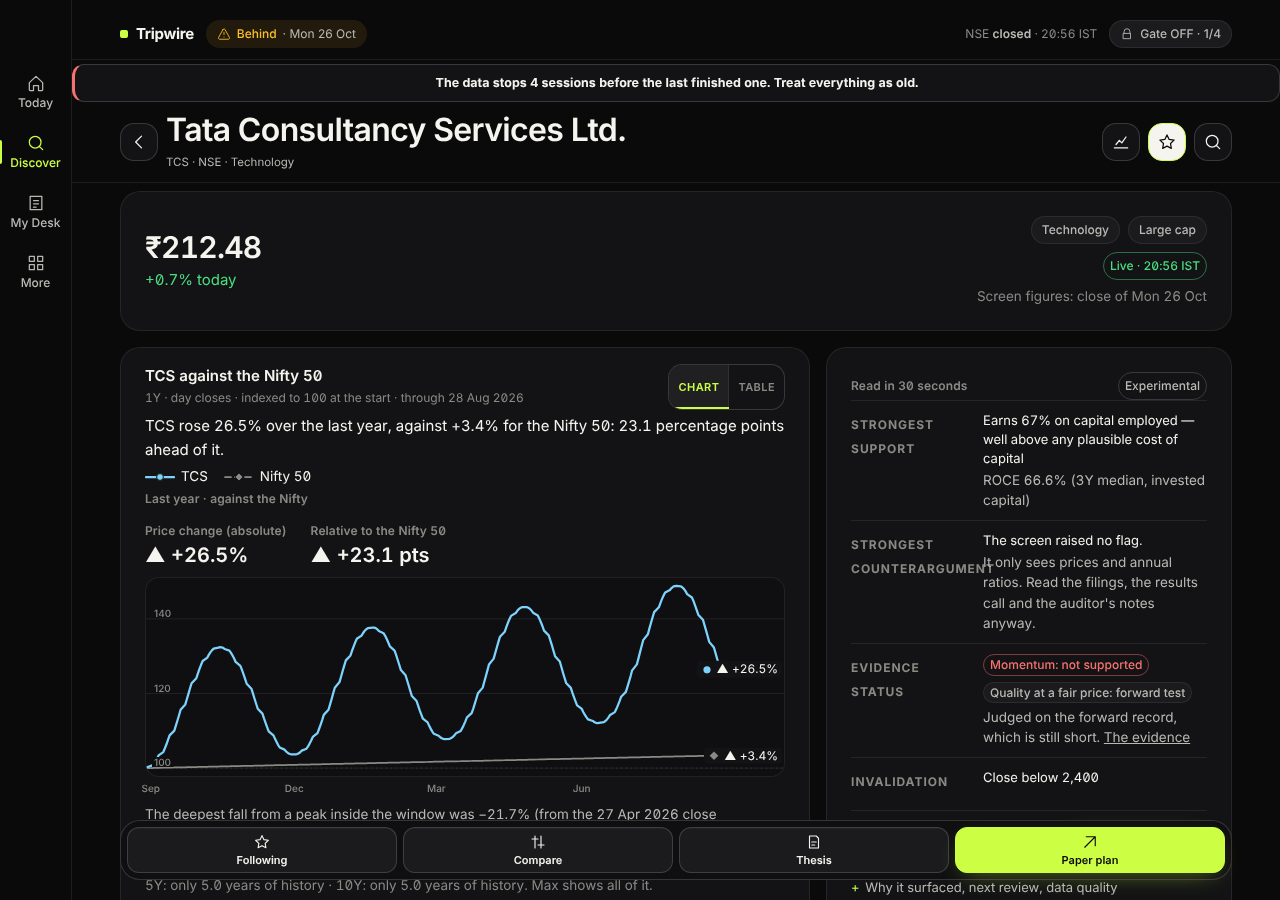
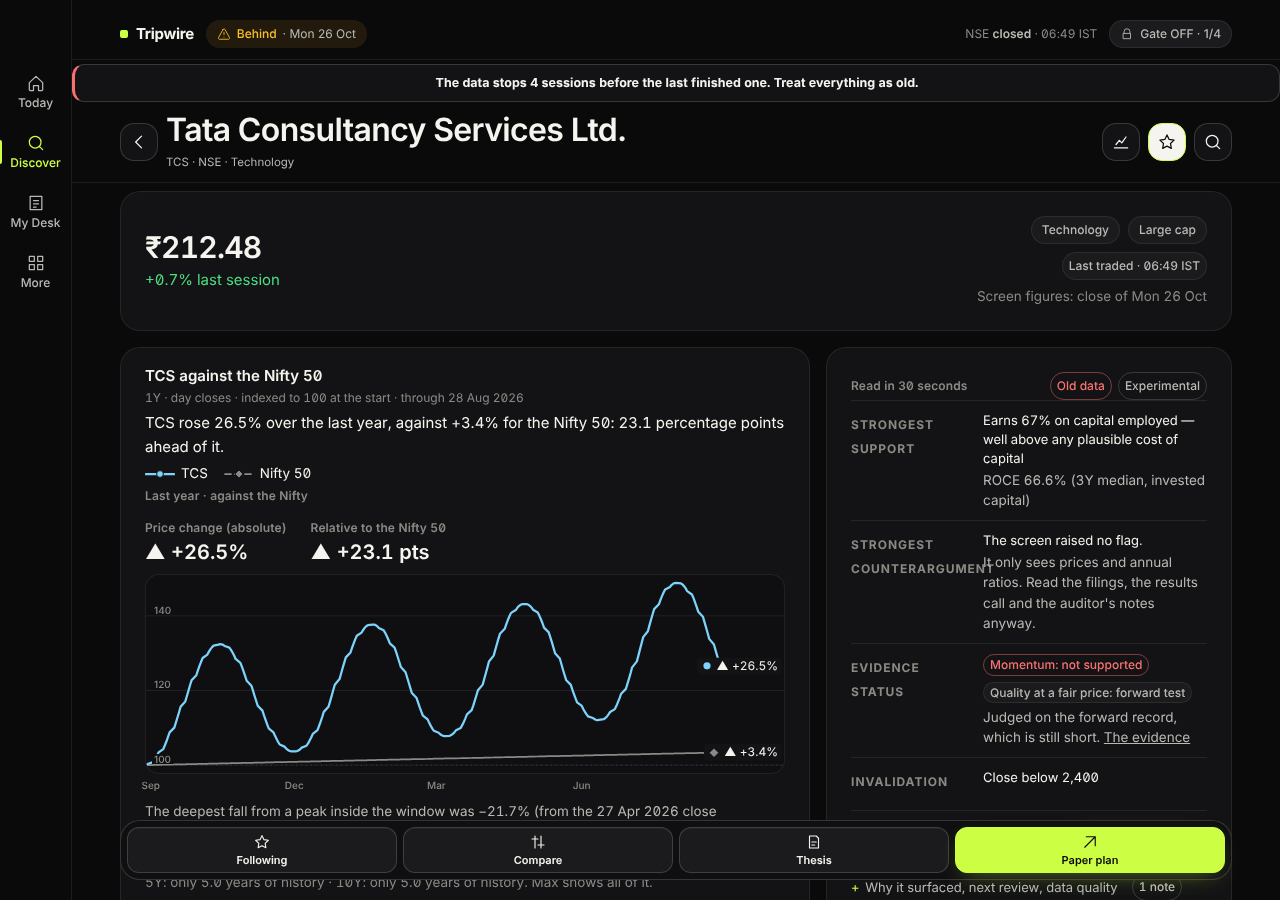
Company chart: two control rows, Chart options sheet with badge, clean line by default, one-line basis, table as disclosure, tab labels that fit; browser tests updated; screenshots refreshed

diff --git a/apps/tripwire/src/screens/PriceChart.tsx b/apps/tripwire/src/screens/PriceChart.tsx
@@ -3,8 +3,8 @@ import { setState, useAppState } from '../app.tsx';
 import { useChart } from '../data.ts';
 import { aggregate, compareSeries, drawdownSeries, pathThrough, rangeAvailability, rsiSeries, smaSeries, dateLabel, downsample, geometry, geometryPair, nearestX, sliceRange, spanWord, stats, xTicks, yTicks, type Frame, type Pt, type RangeId } from '../chart.ts';
 import { inr, pct } from '../fmt.ts';
-import { Radios } from '../ui.tsx';
-import { BASIS, ChartFrame, ChartState, ChartTable, SeriesLegend, arrowOf, buildTable, chartStart, markerPath, priceTakeaway, signedPts, spreadLabels, styleOf, windowWords, type FrameMode } from '../charts/index.ts';
+import { Radios, Sheet } from '../ui.tsx';
+import { BASIS, ChartFrame, ChartState, ChartTable, SeriesLegend, arrowOf, buildTable, chartStart, markerPath, priceTakeaway, signedPts, spreadLabels, styleOf, windowWords } from '../charts/index.ts';
 import type { Level } from '../levels.ts';
 
 /** Price history inside the shared chart frame. A one-year view against the Nifty 50 is where a new reader starts (a saved choice wins); candles, log scale, averages, volume, RSI,
@@ -18,8 +18,8 @@ export function PriceChart({ sym, fmt, name, levels = [], events = [] }: { sym: 
   const feed = useChart(sym); const gid = useId().replace(/:/g, ''); void gid;
   const app = useAppState(); const savedPref = app.prefs.chart;
   const [rangeSel, setRange] = useState<RangeId | null>(null); const [vsSel, setVs] = useState<boolean | null>(null); const [view, setView] = useState<Frame>('daily'); const [log, setLog] = useState(false); const [ma, setMa] = useState(false); const [dd, setDd] = useState(false);
-  const [lvOn, setLvOn] = useState(true); const [evOn, setEvOn] = useState(true); const [kind, setKind] = useState<'line' | 'candle'>('line'); const [vol, setVol] = useState(false); const [rsi, setRsi] = useState(false);
-  const [mode, setMode] = useState<FrameMode>('chart');
+  const [lvOn, setLvOn] = useState(false); const [evOn, setEvOn] = useState(false); /* the clean line first: no overlay is drawn until it is asked for */ const [kind, setKind] = useState<'line' | 'candle'>('line'); const [vol, setVol] = useState(false); const [rsi, setRsi] = useState(false);
+  const [optsOpen, setOptsOpen] = useState(false);
   const [cur, setCur] = useState<number | null>(null); const box = useRef<HTMLDivElement>(null);
   const all: Pt[] = useMemo(() => (feed.data ? feed.data.t.map((t, i) => ({ t, c: feed.data!.c[i], n: feed.data!.n ? feed.data!.n[i] : null, o: feed.data!.o?.[i] ?? null, h: feed.data!.h?.[i] ?? null, l: feed.data!.l?.[i] ?? null, v: feed.data!.v?.[i] ?? null })) : []), [feed.data]);
   const start = useMemo(() => chartStart(all, savedPref as { range?: RangeId; vs?: boolean } | undefined, instrument), [all, savedPref, instrument]);
@@ -44,7 +44,7 @@ export function PriceChart({ sym, fmt, name, levels = [], events = [] }: { sym: 
   const candles = kind === 'candle' && hasOhlc && !cmp;
   const barsMode = !cmp && (candles || (vol && hasVol));
   const [wpx, setWpx] = useState(340); const ready = !feed.loading && !!feed.data && all.length >= 30;
-  useLayoutEffect(() => { const el = box.current; if (!el) return; const set = () => { const w = el.clientWidth; if (w > 0) setWpx((x) => (Math.abs(x - w) < 1 ? x : w)); }; set(); const ro = new ResizeObserver(set); ro.observe(el); return () => ro.disconnect(); }, [ready, mode]);
+  useLayoutEffect(() => { const el = box.current; if (!el) return; const set = () => { const w = el.clientWidth; if (w > 0) setWpx((x) => (Math.abs(x - w) < 1 ? x : w)); }; set(); const ro = new ResizeObserver(set); ro.observe(el); return () => ro.disconnect(); }, [ready]);
   const lastLen = shown.length ? f(shown[shown.length - 1].c).length : 8;
   const gutU = candles ? Math.round((Math.min(wpx * 0.3, Math.max(54, lastLen * 6.4 + 18)) / wpx) * 1000) : 0;
   const pairGut = Math.round((64 / wpx) * 1000);          // room at the right of a two-line chart for the end labels
@@ -76,6 +76,7 @@ export function PriceChart({ sym, fmt, name, levels = [], events = [] }: { sym: 
 
   if (feed.loading) return <ChartState title="Price history" busy />;
   if (feed.err || !feed.data || all.length < 30) return <ChartState title="Price history" action={<button className="btn sm" onClick={feed.retry}>Try again</button>}>{feed.err === 'not published' || feed.err === 'no price history for this symbol' ? 'No price history is held for this symbol.' : feed.data ? 'Too little history to draw.' : `Could not load the price history${feed.err ? ` (${feed.err})` : ''}. Nothing is drawn in its place.`}</ChartState>;
+  const optCount = [view !== 'daily', kind !== 'line', logOn, ma, vol, rsi, dd, lvOn && levels.length > 0, evOn && events.length > 0].filter(Boolean).length;
   const yrs = st ? spanWord(st.years) : '';
   const cmpYears = cmp ? (cmp.a[cmp.a.length - 1].t - cmp.a[0].t) / (365.25 * 86400) : 0;
   const words = cmp?.trimmed ? `the ${spanWord(cmpYears)} since ${dateLabel(cmp.from.t)}` : windowWords(range, win.covers, st?.years ?? 0);
@@ -162,12 +163,12 @@ export function PriceChart({ sym, fmt, name, levels = [], events = [] }: { sym: 
         <svg viewBox={`0 0 ${geo.W} ${H2}`} preserveAspectRatio="none" aria-hidden="true"><line x1="0" x2={geo.W} y1={y(0)} y2={y(0)} stroke="var(--line2)" strokeWidth="1" vectorEffect="non-scaling-stroke" /><path d={`${d}L${geo.xs[geo.xs.length - 1].toFixed(1)} ${y(0)}L${geo.xs[0].toFixed(1)} ${y(0)}Z`} fill="var(--down)" fillOpacity=".12" /><path d={d} fill="none" stroke="var(--down)" strokeWidth="1.25" strokeDasharray="6 2" vectorEffect="non-scaling-stroke" /></svg></div></div>; })()}
   </>;
 
-  return <ChartFrame label="Price history" mode={mode} onMode={(m) => { setMode(m); setCur(null); }}
+  return <ChartFrame label="Price history"
     title={cmp ? `${sym} against the Nifty 50` : `${name ?? sym} price`} meta={metaBits.join(' · ')} takeaway={take} legend={legend} table={<ChartTable data={table} caption={`${cmp ? 'Indexed comparison' : 'Closing prices'} for ${sym}, ${range}`} unitWord={unitWord} />}
-    basis={cmp ? `${BASIS.stock} ${BASIS.nifty} Both lines are indexed to 100 on ${dateLabel(cmp.from.t)} (units: index points).` : instrument ? BASIS.instrument(name ?? sym) : `${BASIS.stock}${candles ? " Candles show each bar's open, high, low and close." : ''} The live price is not drawn here and never moves this chart.`}
-    tableLabel="The same figures as a table"
+    basis={cmp ? 'Daily closes, indexed to 100, split-adjusted, dividends not included' : instrument ? `Daily closes in ${name ?? sym}'s own units` : 'Daily closes, ₹, split-adjusted, dividends not included'}
+   
     notes={<>
-      {mode === 'chart' && <>
+      {<>
         {bars && eff !== view && !cmp && <p className="small mute" style={{ margin: '8px 0 0' }}>{kind === 'candle' ? 'Candles' : 'Volume'} are drawn as {FRAME_WORD[eff]} bars here: {win.pts.length.toLocaleString('en-IN')} daily bars would be too thin to read, and thinning them would misstate each day.</p>}
         {kind === 'candle' && candles && shown.some((q) => q.o == null || q.h == null || q.l == null) && <p className="small mute" style={{ margin: '8px 0 0' }}>{shown.filter((q) => q.o == null || q.h == null || q.l == null).length} bars have no open, high or low from the source and are drawn as a tick on the close. Up candles are hollow, down candles solid.</p>}
         {kind === 'candle' && candles && !shown.some((q) => q.o == null || q.h == null || q.l == null) && <p className="small mute" style={{ margin: '8px 0 0' }}>Up candles are hollow, down candles solid.</p>}
@@ -181,16 +182,33 @@ export function PriceChart({ sym, fmt, name, levels = [], events = [] }: { sym: 
       {avail.some((r) => !r.available) && <p className="small mute" style={{ margin: '8px 0 0' }}>{avail.filter((r) => !r.available).map((r) => r.note).join(' · ')}. Max shows all of it.</p>}
       <div className="c-prim" role="group" aria-label="Chart controls">
         <Radios label="Range" value={range} onChange={chooseRange} items={avail.map((r) => ({ id: r.id, label: r.id === 'Max' ? 'MAX' : r.id, disabled: !r.available, hint: r.note ?? undefined }))} />
-        {!instrument && <Radios label="Compare" value={vs ? 'vs' : 'price'} onChange={(v) => chooseVs(v === 'vs')} items={[{ id: 'price', label: 'PRICE' }, { id: 'vs', label: 'VS NIFTY', disabled: !hasNifty, hint: !hasNifty ? 'The Nifty could not be read' : undefined }]} />}
+        <div className="c-prim2">
+          {!instrument && <Radios label="Compare" value={vs ? 'vs' : 'price'} onChange={(v) => chooseVs(v === 'vs')} items={[{ id: 'price', label: 'PRICE' }, { id: 'vs', label: 'VS NIFTY', disabled: !hasNifty, hint: !hasNifty ? 'The Nifty could not be read' : undefined }]} />}
+          <button type="button" className="btn sm c-optbtn" aria-haspopup="dialog" onClick={() => setOptsOpen(true)}>Chart options{optCount > 0 && <span className="c-badge" aria-label={`${optCount} changed`}>{optCount}</span>}</button>
+        </div>
       </div>
-      <details className="ev c-adv"><summary>Chart options<span className="chev">▾</span></summary><div className="c-bar" role="group" aria-label="Chart options">
-        <Radios label="Detail" value={view} onChange={(v) => { setView(v); setCur(null); }} items={[{ id: 'daily', label: 'DAILY' }, { id: 'weekly', label: 'WEEKLY' }, { id: 'monthly', label: 'MONTHLY' }] as { id: Frame; label: string }[]} />
-        {hasOhlc && !instrument ? <Radios label="Style" value={kind} onChange={(v) => solo(() => setKind(v))} items={[{ id: 'line', label: 'LINE' }, { id: 'candle', label: 'CANDLES', hint: vs ? 'Candles are drawn for the stock alone: this switches off the Nifty comparison' : undefined }] as { id: 'line' | 'candle'; label: string; hint?: string }[]} /> : null}
-        <Radios label="Scale" value={logOn ? 'log' : 'linear'} onChange={(v) => setLog(v === 'log')} items={[{ id: 'linear', label: 'LINEAR' }, { id: 'log', label: 'LOG', disabled: !canLog, hint: !canLog ? 'Log scale needs every close above zero' : undefined }]} />
-        <div className="mini-seg" role="group" aria-label="Indicators"><button aria-pressed={ma} onClick={() => setMa(!ma)}>MA 50/200</button><button aria-pressed={vol} disabled={!hasVol} title={!hasVol ? 'This series carries no volume' : vs ? 'Volume is drawn for the stock alone: this switches off the Nifty comparison' : undefined} onClick={() => solo(() => setVol(!vol))}>VOLUME</button><button aria-pressed={rsi} onClick={() => solo(() => setRsi(!rsi))}>RSI 14</button><button aria-pressed={dd} onClick={() => solo(() => setDd(!dd))}>DRAWDOWN</button>{levels.length > 0 && <button aria-pressed={lvOn} disabled={!!cmp} title="Entry, stop and targets of a position you hold or a pick, drawn only where they fall inside the price range shown" onClick={() => setLvOn(!lvOn)}>LEVELS</button>}{events.length > 0 && <button aria-pressed={evOn} disabled={evIn.length === 0} title={evIn.length === 0 ? 'No dated event falls inside this window' : undefined} onClick={() => setEvOn(!evOn)}>EVENTS</button>}</div>
-      </div></details>
+      {optsOpen && <Sheet title="Chart options" onClose={() => setOptsOpen(false)}>
+        <div className="c-sheet">
+          <Radios label="Detail" value={view} onChange={(v) => { setView(v); setCur(null); }} items={[{ id: 'daily', label: 'DAILY' }, { id: 'weekly', label: 'WEEKLY' }, { id: 'monthly', label: 'MONTHLY' }] as { id: Frame; label: string }[]} />
+          {hasOhlc && !instrument ? <Radios label="Style" value={kind} onChange={(v) => solo(() => setKind(v))} items={[{ id: 'line', label: 'LINE' }, { id: 'candle', label: 'CANDLES', hint: vs ? 'Candles are drawn for the stock alone: this switches off the Nifty comparison' : undefined }] as { id: 'line' | 'candle'; label: string; hint?: string }[]} /> : null}
+          <Radios label="Scale" value={logOn ? 'log' : 'linear'} onChange={(v) => setLog(v === 'log')} items={[{ id: 'linear', label: 'LINEAR' }, { id: 'log', label: 'LOG', disabled: !canLog, hint: !canLog ? 'Log scale needs every close above zero' : undefined }]} />
+          <fieldset className="c-checks"><legend>Overlays</legend>
+            {[
+              ['ma', '50 and 200-day averages', ma, () => setMa(!ma), false, undefined],
+              ['vol', 'Volume', vol, () => solo(() => setVol(!vol)), !hasVol, !hasVol ? 'This series carries no volume' : undefined],
+              ['rsi', 'RSI (14)', rsi, () => solo(() => setRsi(!rsi)), false, undefined],
+              ['dd', 'Drawdown from the running peak', dd, () => solo(() => setDd(!dd)), false, undefined],
+              ...(levels.length > 0 ? [['lv', 'Entry, stop and targets', lvOn, () => setLvOn(!lvOn), !!cmp, 'Drawn only where they fall inside the price range shown'] as const] : []),
+              ...(events.length > 0 ? [['ev', 'Dated events', evOn, () => setEvOn(!evOn), evIn.length === 0, evIn.length === 0 ? 'No dated event falls inside this window' : undefined] as const] : []),
+            ].map(([id, label, on, fn, off, why]) => <label key={id as string} className="c-check"><input type="checkbox" checked={on as boolean} disabled={off as boolean} onChange={fn as () => void} /><span>{label as string}{why ? <span className="mute small"> · {why as string}</span> : null}</span></label>)}
+          </fieldset>
+          {vs && <p className="small mute" style={{ margin: 0 }}>Candles, volume, RSI and drawdown are drawn for the stock alone: choosing one switches the Nifty comparison off.</p>}
+          <button type="button" className="btn pri" onClick={() => setOptsOpen(false)}>Done</button>
+        </div>
+      </Sheet>}
       <details className="ev" style={{ marginTop: 8 }}><summary>About this chart<span className="chev">▾</span></summary><div className="body small dim">
         <p style={{ margin: '0 0 6px' }}>{logOn ? 'Log scale: equal steps are equal percentage moves, so 100 to 200 looks the same as 200 to 400. Best for long ranges.' : `Linear scale: equal steps are equal amounts of price. Best for short ranges.${st && st.hi.c / Math.max(st.lo.c, 1e-9) >= 3 ? ' This window moved more than threefold, so older moves look small; LOG shows them in proportion.' : ''}`}</p>
+        <p style={{ margin: '0 0 6px' }}>{cmp ? `${BASIS.stock} ${BASIS.nifty} Both lines are indexed to 100 on ${dateLabel(cmp.from.t)} (units: index points).` : instrument ? BASIS.instrument(name ?? sym) : `${BASIS.stock}${candles ? " Candles show each bar's open, high, low and close." : ''} The live price is not drawn here and never moves this chart.`}</p>
         <p style={{ margin: 0 }}>{instrument ? `Daily closes from Yahoo Finance for ${name ?? sym}. Futures contracts roll to the next month, which can leave a small step in the line.` : 'Daily closes from Yahoo Finance, adjusted for splits and bonuses, not for dividends. The Nifty line is the index price, without dividends, like the stock. A price change is the stock on its own; the relative figure is the stock minus the Nifty in percentage points. Past prices say nothing certain about future ones.'}</p></div></details>
     </>}>
     {chart}

diff --git a/apps/tripwire/src/screens/CompareChart.tsx b/apps/tripwire/src/screens/CompareChart.tsx
@@ -4,7 +4,7 @@ import { getJson, hasHistory, type ChartFeed } from '../data.ts';
 import { RANGES, alignIndexed, dateLabel, nearestX, xTicks, yTicks, type RangeId, type Series } from '../chart.ts';
 import { pct } from '../fmt.ts';
 import { Radios } from '../ui.tsx';
-import { BASIS, ChartFrame, ChartState, ChartTable, SeriesLegend, arrowOf, buildTable, compareTakeaway, coverageOf, drawdownLines, isRangeId, markerPath, spreadLabels, styleOf, windowWords, type FrameMode } from '../charts/index.ts';
+import { BASIS, ChartFrame, ChartState, ChartTable, SeriesLegend, arrowOf, buildTable, compareTakeaway, coverageOf, drawdownLines, isRangeId, markerPath, spreadLabels, styleOf, windowWords } from '../charts/index.ts';
 
 function useCharts(syms: string[]) {
   const key = syms.join(','); const [st, set] = useState<{ data: Record<string, ChartFeed>; err: Record<string, string> }>({ data: {}, err: {} });
@@ -21,10 +21,10 @@ type Metric = 'return' | 'drawdown';
 export function CompareChart({ syms }: { syms: string[] }) {
   const { data, err } = useCharts(syms); const app = useAppState(); const saved = app.prefs.chart?.range;
   const [rangeSel, setRange] = useState<RangeId | null>(null); const range: RangeId = rangeSel ?? (isRangeId(saved) ? saved : '1Y');
-  const [log, setLog] = useState(false); const [metric, setMetric] = useState<Metric>('return'); const [mode, setMode] = useState<FrameMode>('chart');
+  const [log, setLog] = useState(false); const [metric, setMetric] = useState<Metric>('return');
   const [cur, setCur] = useState<number | null>(null); const box = useRef<HTMLDivElement>(null); const [wpx, setWpx] = useState(340);
   const failed = Object.keys(err); const ready = syms.every((s) => data[s]);
-  useEffect(() => { const el = box.current; if (!el) return; const set = () => { const w = el.clientWidth; if (w > 0) setWpx(w); }; set(); const ro = new ResizeObserver(set); ro.observe(el); return () => ro.disconnect(); }, [ready, mode, metric]);
+  useEffect(() => { const el = box.current; if (!el) return; const set = () => { const w = el.clientWidth; if (w > 0) setWpx(w); }; set(); const ro = new ResizeObserver(set); ro.observe(el); return () => ro.disconnect(); }, [ready, metric]);
   const series: Series[] = useMemo(() => (ready ? syms.map((s) => ({ id: s, t: data[s].t, c: data[s].c, n: data[s].n })) : []), [ready, data, syms.join()]);   // eslint-disable-line react-hooks/exhaustive-deps
   const al = useMemo(() => (ready ? alignIndexed(series, range) : null), [ready, series, range]);
   const lines = useMemo(() => {
@@ -54,20 +54,21 @@ export function CompareChart({ syms }: { syms: string[] }) {
   const ends = spreadLabels(L.map((l) => geo.y(l.v[last]) / geo.H));
   const table = buildTable(al.t, L.map((l) => ({ key: l.id, label: l.id, unit: metric === 'return' ? '(index)' : '(% from peak)', digits: metric === 'return' ? 1 : 1, v: l.v })), { monthly: false });
   const setR = (r: RangeId) => { setRange(r); setCur(null); setState((x) => ({ ...x, prefs: { ...x.prefs, chart: { ...x.prefs.chart, range: r } } })); };
-  return <ChartFrame label="Price comparison" mode={mode} onMode={(m) => { setMode(m); setCur(null); }} tableLabel="The same figures as a table"
+  return <ChartFrame label="Price comparison"
     title={metric === 'return' ? 'Price change, each indexed to 100' : 'Fall from the running peak'} meta={`${range === 'Max' ? 'All shared history' : range} · daily closes · ${metric === 'return' ? 'index points (100 = the start)' : '% below the highest close so far'} · from ${dateLabel(al.t[0])} through ${dateLabel(al.t[last])}`}
     takeaway={take} busy={false}
     legend={<SeriesLegend items={L.map((l) => ({ style: l.st, value: value(l.v[i]), arrow: dir(l.v[i]), title: cur == null ? undefined : dateLabel(al.t[i]) }))} label={cur == null ? 'Lines on this chart, latest values' : `Lines on this chart at ${dateLabel(al.t[i])}`} />}
     table={<ChartTable data={table} caption={`${syms.join(', ')} ${metric === 'return' ? 'indexed to 100' : 'drawdown'}, ${range}`} unitWord="daily points" />}
-    basis={`${BASIS.stock} ${BASIS.nifty} Every line starts at 100 on the first day all of them traded together (${dateLabel(al.t[0])}).`}
+    basis="Daily closes, indexed to 100, split-adjusted, dividends not included"
     notes={<>
-      {mode === 'chart' && cov.notes.map((n) => <p key={n} className="small mute" role="note" style={{ margin: '8px 0 0' }}>{n}</p>)}
-      {mode === 'chart' && !al.nifty && <p className="small mute" style={{ margin: '8px 0 0' }}>The Nifty 50 line is missing: the first stock has no Nifty close on the first shared day.</p>}
+      {cov.notes.map((n) => <p key={n} className="small mute" role="note" style={{ margin: '8px 0 0' }}>{n}</p>)}
+      {!al.nifty && <p className="small mute" style={{ margin: '8px 0 0' }}>The Nifty 50 line is missing: the first stock has no Nifty close on the first shared day.</p>}
       <div className="c-prim" role="group" aria-label="Chart controls">
         <Radios label="Range" value={range} onChange={setR} items={RANGES.map((r) => ({ id: r.id, label: r.id === 'Max' ? 'MAX' : r.id }))} />
-        <Radios label="Measure" value={metric} onChange={(m) => { setMetric(m); setCur(null); }} items={[{ id: 'return', label: 'RETURN' }, { id: 'drawdown', label: 'DRAWDOWN' }]} />
-        <Radios label="Scale" value={log && metric === 'return' ? 'log' : 'linear'} onChange={(v) => setLog(v === 'log')} items={[{ id: 'linear', label: 'LINEAR' }, { id: 'log', label: 'LOG', disabled: metric !== 'return', hint: metric !== 'return' ? 'Log applies to the indexed return' : undefined }]} />
+        <div className="c-prim2"><Radios label="Measure" value={metric} onChange={(m) => { setMetric(m); setCur(null); }} items={[{ id: 'return', label: 'RETURN' }, { id: 'drawdown', label: 'DRAWDOWN' }]} />
+        <Radios label="Scale" value={log && metric === 'return' ? 'log' : 'linear'} onChange={(v) => setLog(v === 'log')} items={[{ id: 'linear', label: 'LINEAR' }, { id: 'log', label: 'LOG', disabled: metric !== 'return', hint: metric !== 'return' ? 'Log applies to the indexed return' : undefined }]} /></div>
       </div>
+      <details className="ev" style={{ marginTop: 8 }}><summary>About this chart<span className="chev">▾</span></summary><div className="body small dim"><p style={{ margin: '0 0 6px' }}>{BASIS.stock}</p><p style={{ margin: '0 0 6px' }}>{BASIS.nifty}</p><p style={{ margin: 0 }}>Every line starts at 100 on the first day all of them traded together ({dateLabel(al.t[0])}).</p></div></details>
     </>}>
     <div ref={box} className="cchart chart-plot" tabIndex={0} role="slider" aria-label={`${syms.join(', ')} compared since ${dateLabel(al.t[0])}. Use the arrow keys to move along the lines.`} aria-valuemin={0} aria-valuemax={last} aria-valuenow={i}
       aria-valuetext={`${dateLabel(al.t[i])}: ${L.map((l) => `${l.id} ${value(l.v[i])}`).join(', ')}`} style={{ touchAction: 'pan-y', height: 220 }}

diff --git a/apps/tripwire/src/charts/frame.tsx b/apps/tripwire/src/charts/frame.tsx
@@ -2,11 +2,9 @@
  *  the factual takeaway (from takeaway.ts, never typed in a screen); the legend with direct values and shapes; the drawing; the coverage notes; and one source-and-basis line.
  *  The frame holds the chart's height while it loads, so nothing moves when it arrives. Motion is not here: lines draw under html.fx in motion.css and style.css only. */
 import { useId, type ReactNode } from 'react';
-import { Radios } from '../ui.tsx';
 import { markerPath, type SeriesStyle } from './series.ts';
 import { cellText, rowDate, tableNote, type ChartTableData } from './table.ts';
 
-export type FrameMode = 'chart' | 'table';
 /** The words every chart prints under it. Adjustment basis lives here, once: a price chart and a comparison must not describe the same series differently. */
 export const BASIS = {
   stock: 'Source: Yahoo Finance daily closes. Prices are adjusted for splits and bonuses, not for dividends: dividends are neither reinvested nor added back, so these are price returns and understate the total return of a company that pays them.',
@@ -15,22 +13,22 @@ export const BASIS = {
   statements: 'Source: annual statements from the data provider, in ₹ crore, by fiscal year ending 31 March. Figures are as reported, not adjusted; a year without a figure is left blank, not drawn as zero.',
 } as const;
 
-export function ChartFrame({ title, meta, mode, onMode, takeaway, legend, children, table, notes, basis, label, tableLabel, busy, className = '' }: {
-  title: ReactNode; meta?: ReactNode; mode: FrameMode; onMode: (m: FrameMode) => void; takeaway?: { headline: string; lines: string[]; dataThrough: string } | null;
-  legend?: ReactNode; children: ReactNode; table?: ReactNode; notes?: ReactNode; basis?: ReactNode; label: string; tableLabel?: string; busy?: boolean; className?: string;
+export function ChartFrame({ title, meta, takeaway, legend, children, table, tableOpen, notes, basis, label, tableLabel, busy, className = '' }: {
+  title: ReactNode; meta?: ReactNode; takeaway?: { headline: string; lines: string[]; dataThrough: string } | null;
+  legend?: ReactNode; children: ReactNode; table?: ReactNode; tableOpen?: boolean; notes?: ReactNode; basis?: ReactNode; label: string; tableLabel?: string; busy?: boolean; className?: string;
 }) {
   const id = useId().replace(/:/g, '');
   return <section className={`card chart cf ${className}`.trim()} aria-label={label} aria-busy={busy || undefined}>
     <div className="cf-head">
       <div className="cf-title"><div className="cf-h">{title}</div>{meta && <div className="cf-meta">{meta}</div>}</div>
-      {table && <Radios label="Show as" value={mode} onChange={onMode} className="mini-seg cf-view" items={[{ id: 'chart', label: 'CHART' }, { id: 'table', label: 'TABLE', hint: tableLabel ?? 'The same figures as a table' }] as { id: FrameMode; label: string; hint?: string }[]} />}
     </div>
     {takeaway && <div className="cf-take" id={`${id}-t`} data-takeaway><p className="cf-lead">{takeaway.headline}</p></div>}
     {legend}
-    {mode === 'table' && table ? table : children}
+    {children}
     {takeaway && <div className="cf-take2" data-takeaway>{takeaway.lines.map((l) => <p key={l} className="cf-line">{l}</p>)}<p className="cf-through num">{takeaway.dataThrough}</p></div>}
     {notes}
     {basis && <p className="cf-basis small mute">{basis}</p>}
+    {table && <details className="ev cf-tbl" open={tableOpen}><summary>{tableLabel ?? 'The same chart as a table'}<span className="chev">▾</span></summary><div className="body">{table}</div></details>}
   </section>;
 }
 

diff --git a/apps/tripwire/src/screens/FinancialCharts.tsx b/apps/tripwire/src/screens/FinancialCharts.tsx
@@ -1,6 +1,5 @@
-import { useState } from 'react';
 import type { Year } from '../data.ts';
-import { ChartFrame, BASIS, financialsTakeaway, netMargin, signedPct, type FrameMode } from '../charts/index.ts';
+import { ChartFrame, BASIS, financialsTakeaway, netMargin, signedPct } from '../charts/index.ts';
 import { dash } from '../fmt.ts';
 
 const isN = (v: unknown): v is number => typeof v === 'number' && Number.isFinite(v);
@@ -9,7 +8,6 @@ const lakh = (v: number) => Math.round(v).toLocaleString('en-IN');
  *  Each panel has its own zero line and its own scale (they are different units); a loss is drawn below zero, outlined and signed, never as a short positive bar; a year with no figure is a gap, not a zero.
  *  `margins` is false for a lender, whose margins the screen withholds. */
 export function FinancialCharts({ years, margins }: { years: readonly Year[]; margins: boolean }) {
-  const [mode, setMode] = useState<FrameMode>('chart');
   const ys = [...years].slice(0, 6).reverse();      // oldest first
   if (!ys.length) return <div className="card dim">No financial statements are held for this name. Every ratio that depends on them is missing, not zero.</div>;
   const n = ys.length; const colW = 100; const W = n * colW; const H = 120; const pad = 14;
@@ -47,7 +45,7 @@ export function FinancialCharts({ years, margins }: { years: readonly Year[]; ma
     <thead><tr><th scope="col" style={{ textAlign: 'left' }}>Fiscal year</th><th scope="col" style={{ textAlign: 'right' }}>Revenue (₹ cr)</th><th scope="col" style={{ textAlign: 'right' }}>Profit after tax (₹ cr)</th>{margins && <th scope="col" style={{ textAlign: 'right' }}>Net margin</th>}{margins && <th scope="col" style={{ textAlign: 'right' }}>EBIT margin</th>}</tr></thead>
     <tbody>{ys.map((y, i) => <tr key={y.fy}><th scope="row" style={{ textAlign: 'left', fontWeight: 500 }}>{y.fy}</th><td className="num" style={{ textAlign: 'right' }}>{rev[i] === null ? dash : lakh(rev[i] as number)}</td><td className="num" style={{ textAlign: 'right' }}>{pat[i] === null ? dash : (pat[i] as number) < 0 ? `−${lakh(-(pat[i] as number))}` : lakh(pat[i] as number)}</td>{margins && <td className="num" style={{ textAlign: 'right' }}>{nm[i] === null ? dash : `${(nm[i] as number).toFixed(1)}%`}</td>}{margins && <td className="num" style={{ textAlign: 'right' }}>{em[i] === null ? dash : `${(em[i] as number).toFixed(1)}%`}</td>}</tr>)}</tbody></table></div>
     <p className="small mute" style={{ margin: '8px 0 0' }}>All {n} fiscal years drawn on the chart.</p></div>;
-  return <ChartFrame className="fin-frame" label="Revenue, profit and margins" mode={mode} onMode={setMode} tableLabel="The same figures as a table"
+  return <ChartFrame className="fin-frame" label="Revenue, profit and margins"
     title="Revenue, profit and margins by fiscal year" meta={`${take.span ?? ''} · ₹ crore and % of revenue · latest year held ${last.fy}${last.end ? `, ended ${last.end}` : ''}`}
     takeaway={{ headline: take.lines[0], lines: take.lines.slice(1), dataThrough: `Statements through ${last.fy}` }} table={table}
     basis={BASIS.statements + (margins ? '' : ' Margins are withheld for this company (the screen does not measure them for a lender), not shown as zero.')}>

diff --git a/apps/tripwire/src/charts.css b/apps/tripwire/src/charts.css
@@ -45,9 +45,32 @@
 .co-grid>*{min-width:0}
 @media(min-width:1000px){.co-grid.has-side{grid-template-columns:minmax(0,1.7fr) minmax(0,1fr);align-items:start}.co-side{position:sticky;top:var(--sp-4)}}
 .co-tabs{margin:var(--sp-5) 0 var(--sp-3)}
-.co-tabs .seg{overflow-x:auto}
-.co-tabs .seg button{min-height:var(--hit)}
+.co-tabs .seg{overflow-x:auto;grid-auto-columns:minmax(max-content,1fr)}
+.co-tabs .seg .thumb{display:none}
+.co-tabs .seg button[aria-selected=true]{background:var(--accent);color:var(--on-accent)}
+.co-tabs .seg button{min-height:var(--hit);white-space:nowrap;overflow-wrap:normal;padding-inline:var(--sp-2);font-size:var(--fs-data)}
+@media(max-width:480px){.co-tabs .seg button{font-size:var(--fs-label);padding-inline:2px;letter-spacing:-.01em}}
+@media(max-width:400px){.co-tabs .seg button{font-size:.6875rem}}
 .cmp-add{margin:0 0 var(--sp-3)}
 .cmp-add>summary{list-style:none;min-height:var(--hit);display:inline-flex;align-items:center;gap:var(--sp-2);padding:0 var(--sp-4);border-radius:var(--radius-pill);border:1px solid var(--line-2);cursor:pointer;font-size:var(--fs-data);color:var(--ink)}
 .cmp-add[open]>summary{margin-bottom:var(--sp-3)}
 .cmp-trade{margin:var(--sp-3) 0 0}
+/* controls: two rows at most on a phone (range, then compare and options); everything else is in the Chart options sheet */
+.c-prim{align-items:center}
+.c-prim2{display:flex;flex-wrap:wrap;align-items:center;gap:var(--sp-2) var(--sp-3);min-width:0}
+.c-optbtn{min-height:var(--hit);display:inline-flex;align-items:center;gap:var(--sp-2);white-space:nowrap}
+.c-badge{display:inline-grid;place-items:center;min-width:20px;height:20px;padding:0 6px;border-radius:var(--radius-pill);background:var(--accent);color:var(--on-accent);font-size:var(--fs-label);font-weight:700}
+.c-sheet{display:grid;gap:var(--sp-4);padding-bottom:var(--sp-2)}
+.c-sheet .mini-seg{flex-wrap:wrap}
+.c-sheet .mini-seg button{min-height:var(--hit);min-width:var(--hit)}
+.c-checks{border:0;margin:0;padding:0;display:grid;gap:var(--sp-1)}
+.c-checks legend{padding:0;margin:0 0 var(--sp-1);font-size:var(--fs-label);color:var(--ink-3);text-transform:uppercase;letter-spacing:.04em}
+.c-check{display:flex;align-items:center;gap:var(--sp-3);min-height:var(--hit);cursor:pointer;font-size:var(--fs-body)}
+.c-check input{width:22px;height:22px;flex:none;accent-color:var(--accent)}
+.c-check input:disabled+span{color:var(--ink-3)}
+.cf-tbl{margin-top:var(--sp-3)}
+.cf-tbl>summary{min-height:var(--hit)}
+@media(max-width:480px){.cf{padding:var(--sp-4)}.c-prim .mini-seg button{padding-inline:var(--sp-2)}}
+/* the sticky action bar must not hide the last controls: a focused or scrolled-to control stops above it */
+html:has(.fab-row){scroll-padding-bottom:calc(var(--tab) + 96px)}
+.cf{scroll-margin-bottom:calc(var(--tab) + 96px)}
